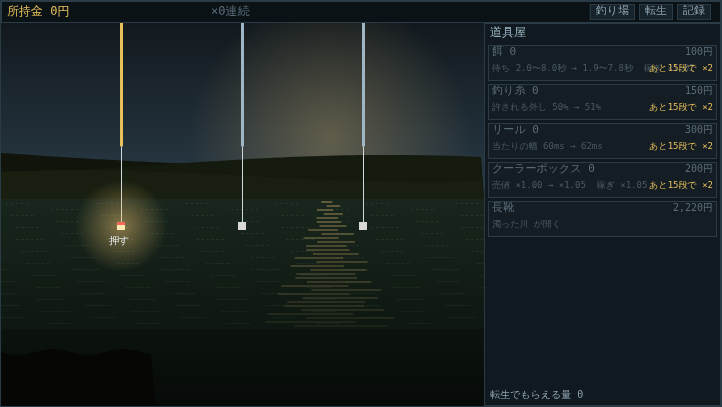
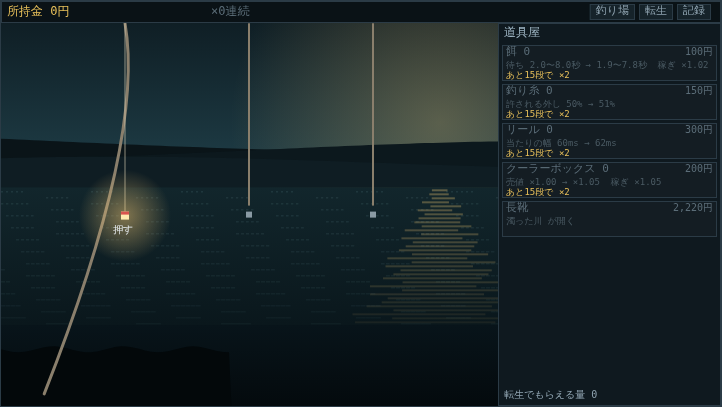
画面Aを、見本の色と座標そのままにする
前の版は割合だけを見本に合わせ、層の色は釣り場ごとに振っていた。
11章の決は「釣り場ごとに変えるのは光の色」で、層の色ではない。
見本も画面も 720×405 なので、割合も座標も色もそのまま移した。

- 層の色を LAYER に一つだけ持つ（釣り場によらず同じ）
- 竿を一本の曲線にする（二本め以降は細い縦線）
- 道具屋を 0.31 に（見本は 0.233 だが、9章の「効果の一行が入る幅」が勝つ）
- 光源1 の横位置を 0.61 に（見えている絵の中での位置を合わせる）
- 道具屋の効果と節目が重なっていたので、行を分ける

Claude-Session: https://claude.ai/code/session_01FWfDWPPf3eFfUKrHUiB2gN

diff --git a/spec.md b/spec.md
@@ -2965,25 +2965,40 @@ C 釣り場選び ⇄ A 釣りの画面 → B 転生 → C
 > 「残りの段を均等に分けない」（`gamedev/references/mitame.md` 014）。
 > **測るときは、道具屋（画面の23%）と上端も数に入れる** ── 目に入るもの全部で測るため。
 
-> **層ごとに別の暗さを持たせる（決・第36版）。**
-> 一度「明度を三段に畳み、暗の段の中では色相だけを変える」を入れたが、
-> **それだと見本と違う絵になった**（空が明るい面になって画面を占め、
-> 3の肝である「光っているものだけが明るい」が消えた）。
-> **見本の層ごとの暗さを、そのまま実装の初期値にする。**
+> **絵は見本のとおりに実装する（決・第36版）。**
+> 見本は 720×405 で描いた。**画面の大きさが同じなので、割合も座標もそのまま使える。**
+> 割合は**画面ぜんぶ**に対してで、上端の帯と道具屋はその上にかぶせる（見本もそうしていた）。
 >
->     地        0.09        空 上端 0.14 → 水平線 0.33
->     遠景      0.14（奥）から一枚ごとに +0.04
->     水面      上 0.30 → 下 0.18
->     水中      上 0.15 → 底 0.08
->     手前      0.05
+>     水平線 0.46／遠景の峰 0.34／水面の下端 0.80／手前の上端 0.86／浮き 0.52
+>     光源1 (0.61, 0.30) 半径 0.292 濃さ 0.30／光源2 半径 46 濃さ 0.50
+>     竿 根もと (0.06, 0.97) → ふくらみ (0.20, 0.34) → 先 0.055
 >
-> 数字は**釣り場の色にかける倍率**（1.0で元の色）。釣り場が変わっても倍率は同じで、
-> **色だけが差し替わる。**割合の位置は 水平線 0.46／遠景の峰 0.34／水面の下端 0.80／
-> 手前の上端 0.86／浮き 0.52。**全部つまみ**（10章12）。
+> **層の色は釣り場によらず同じ（決）。**11章の決は「**釣り場ごとに変えるのは光の色**」で、
+> 層の色ではない。**一度これを取り違えて層の色を釣り場ごとに振り、見本と違う絵になった。**
+>
+>     地 #070d10／空 #0d1a20→#20404a／遠景 #0a1418 #0c181d #0f1d23
+>     水面 #12262c→#0a171c／水中 #08141a→#040a0d／手前 #03080a／さざなみ #8fc7cd
+>
+> **光源の色は白にしない（決）。**白い光は反射の柱が「面」に見えて、光っていることが読めない。
+> 用水路は琥珀、澄んだ湖と氷の下は青緑にした。
+>
+> **竿は一本の曲線（決）。**画面の左下から立ち上がって右上で糸に変わる。
+> **二本め以降は細い縦線**にする ── 曲線を八本重ねると、どれが自分の竿か読めない。
 
-> **光源の色は、白にしない（決・第36版）。**
-> 白い光は反射の柱が「面」に見えてしまい、光っていることが読めない。
-> **色の付いた光にする**（用水路は琥珀、澄んだ湖と氷の下は青緑）。
+> **見本と変えたところ（三点）。**
+>
+> 1. **道具屋の幅は 0.31。**見本は 0.233 だったが、
+>    9章の決「**効果の一行が入る幅**」を満たさない（餌の行が 51 画素はみ出す）。
+>    **決が勝つ。**そのぶん絵は見本より横に狭い
+> 2. **光源1 の横位置は 0.61。**見本は 0.68 だが、見本の道具屋は 0.233。
+>    **数字ではなく、見えている絵の中での位置を合わせた**（絵の右寄り）
+> 3. **水中の飾りの魚影は入れない。**見本は二つ描いているが、
+>    このゲームでは魚影は「魚が近づいている」という意味を持つ。
+>    **意味のない影を置くと、絵がルールに嘘をつく**
+>
+> **道具屋の一行を、二行に割った（第36版）。**
+> 「効果」と「あと◯段で ×2」を同じ行の左右に置いていて、**幅にかかわらず重なっていた**
+> （0.33 でも 49 画素）。効果を一行、節目を次の行にした。
 
 > **明度の測り方を変えた（第36版）。**
 > 「明度を10%刻みで数え、段が2〜4／一段が50%超」で測っていたが、
@@ -2994,8 +3009,7 @@ C 釣り場選び ⇄ A 釣りの画面 → B 転生 → C
 >     1. 背景の面が暗の段に収まっているか（左端の帯で測る。竿も浮きも光源も無い）
 >     2. いちばん明るい画素が、浮きの灯りの近くに在るか
 >
->     用水路   面 0.30／浮きから 5画素      堤防   面 0.25／5画素
->     洞窟     面 0.17／5画素               深海   面 0.12／5画素
+>     用水路 面 0.30／8画素   堤防 0.24／8   洞窟 0.20／8   深海 0.20／8
 >
 > **`friction-check.mjs` が四つの釣り場で毎回測る。**
 

diff --git a/decisions.md b/decisions.md
@@ -1031,3 +1031,22 @@
 - なぜ：1（調べれば決まる）。刻みの線のどちら側かで同じ塊が2段に割れ、
   隣を繋ぐと今度は何でも通った。**通らない測り方でないと、測ったことにならない**
 - いつまでなら安い：いつでも。tools/friction-check.mjs の一箇所
+
+## 絵は見本のとおりに実装する（第36版・二度目の直し）
+
+- 何を決めたか：見本（1と3を重ねた案）の割合・座標・**層の色そのもの**を使う。
+  見本も画面も 720×405 なので、数字がそのまま移せる
+- 画面で何に見えるか：空は青緑の段、遠景は三枚の黒い切り抜き、水は濃紺、
+  手前が額縁。**明るいのは空の残光と浮きの灯りだけ。竿は一本の曲線**
+- なぜ：1（調べれば決まる）。**11章の決は「釣り場ごとに変えるのは光の色」で、層の色ではない。**
+  一度これを取り違えて層の色を釣り場ごとに振り、見本と違う絵になった
+- いつまでなら安い：いまが安い。割合も座標も全部つまみ。層の色は表を一つ書き換えるだけ
+
+## 道具屋の一行を、二行に割った（第36版）
+
+- 何を決めたか：「効果」と「あと◯段で ×2」を同じ行の左右に置くのをやめ、行を分けた
+- 画面で何に見えるか：**重なって読めなかった文字が読めるようになる**
+  （餌の行は 0.33 の幅でも 49 画素はみ出していた）
+- なぜ：2（上位の決定から導ける）。9章の決「効果の一行が入る幅」から。
+  重なっていたら、幅がいくら在っても決を満たしていない
+- いつまでなら安い：いつでも。drawShop の三行

diff --git a/builds/README.md b/builds/README.md
@@ -84,3 +84,6 @@
 - `2026-08-21-gosou-2.html` … 画面Aを**見本そのまま**に直した版。
   一つ前（`2026-08-21-gosou.html`）は明度を三段に畳んでいて、空が明るい面になり、
   見本の「光っているものだけが明るい」が消えていた
+- `2026-08-21-gosou-3.html` … 画面Aを**見本の色と座標そのまま**にした版。
+  一つ前（`-gosou-2.html`）は割合だけ見本に合わせて、**層の色を釣り場ごとに振っていた**。
+  11章の決は「釣り場ごとに変えるのは光の色」で、層の色ではなかった
